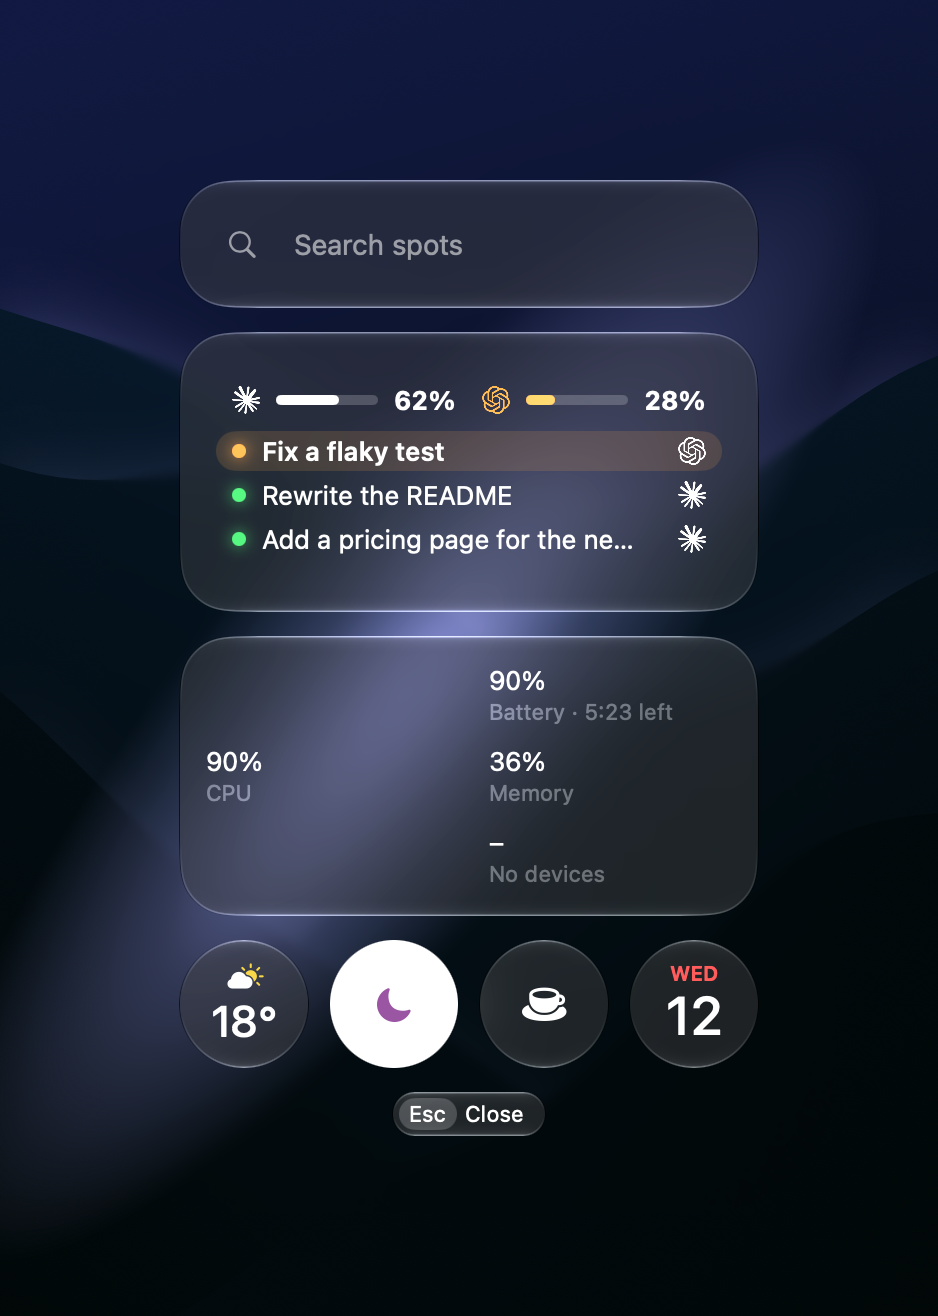
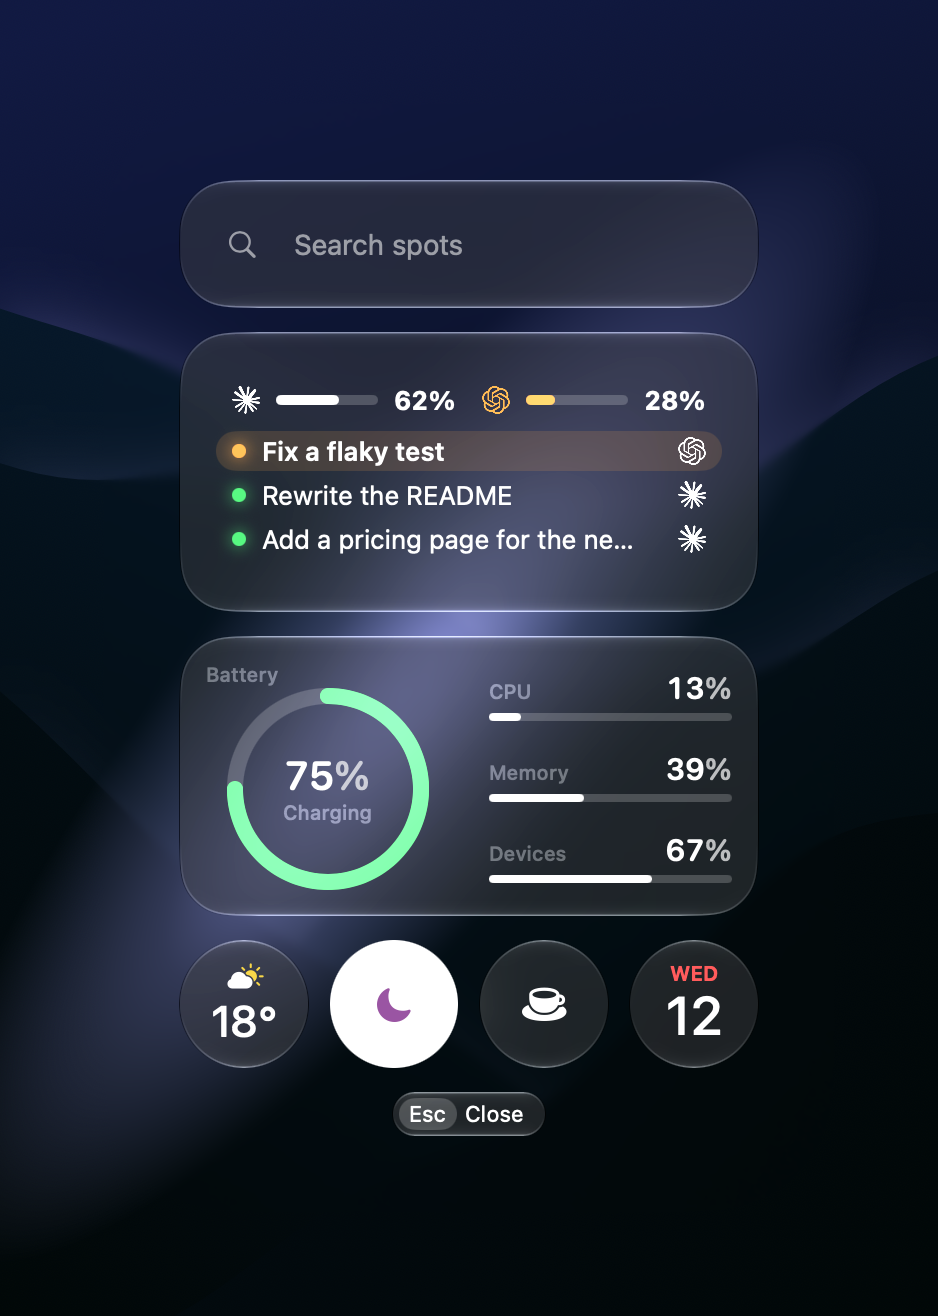
System: the README panel shows its battery ring again, and the saved battery and devices take the number form
The README image is drawn on screen from the new numbers. System keeps the
battery and the devices in battery.number and devices.number, so a Mac that
kept the text form of the merge reads them again at once.

Changed region(s): [[0.5256, 0.4985, 0.7729, 0.6854], [0.2164, 0.4985, 0.4638, 0.6854]]

diff --git a/app/Tests/MetricSpotsTests.swift b/app/Tests/MetricSpotsTests.swift
@@ -124,6 +124,21 @@ final class MetricSpotsTests: SpotRunsCase {
         try await wait("the read of the device") { self.log("tools.log") == ["system_profiler", "system_profiler"] && !self.runs.isShowing }
     }
 
+    func testSystemReadsTheBatteryAndTheDevicesAgainOverWhatAnOlderFormKept() async throws {
+        try copy("system")
+        let data = ScriptProcess.dataFolder(base: runs.environment, dataName: "system")
+        try FileManager.default.createDirectory(at: data, withIntermediateDirectories: true)
+        try "text=battery\ntitle=50%\n".write(to: data.appendingPathComponent("battery"), atomically: true, encoding: .utf8)
+        try "text=devices\ntitle=50%\n".write(to: data.appendingPathComponent("devices"), atomically: true, encoding: .utf8)
+        runs.listen(to: mac)
+        _ = try scanned()
+        runs.take(grid: ["system"])
+        runs.panelOpened()
+        let number = { (id: String) in self.runs.sheets["system"]?.state.face.parts.first { $0.id == id }?.number?.text }
+
+        try await wait("the numbers") { number("battery") == "84%" && number("devices") == "–" && !self.runs.isShowing }
+    }
+
     func testSystemDrawsItsOwnCardOfTheBatteryTheCPUTheMemoryAndTheDevicesAtTheirEvents() async throws {
         try copy("system")
         runs.listen(to: mac)
